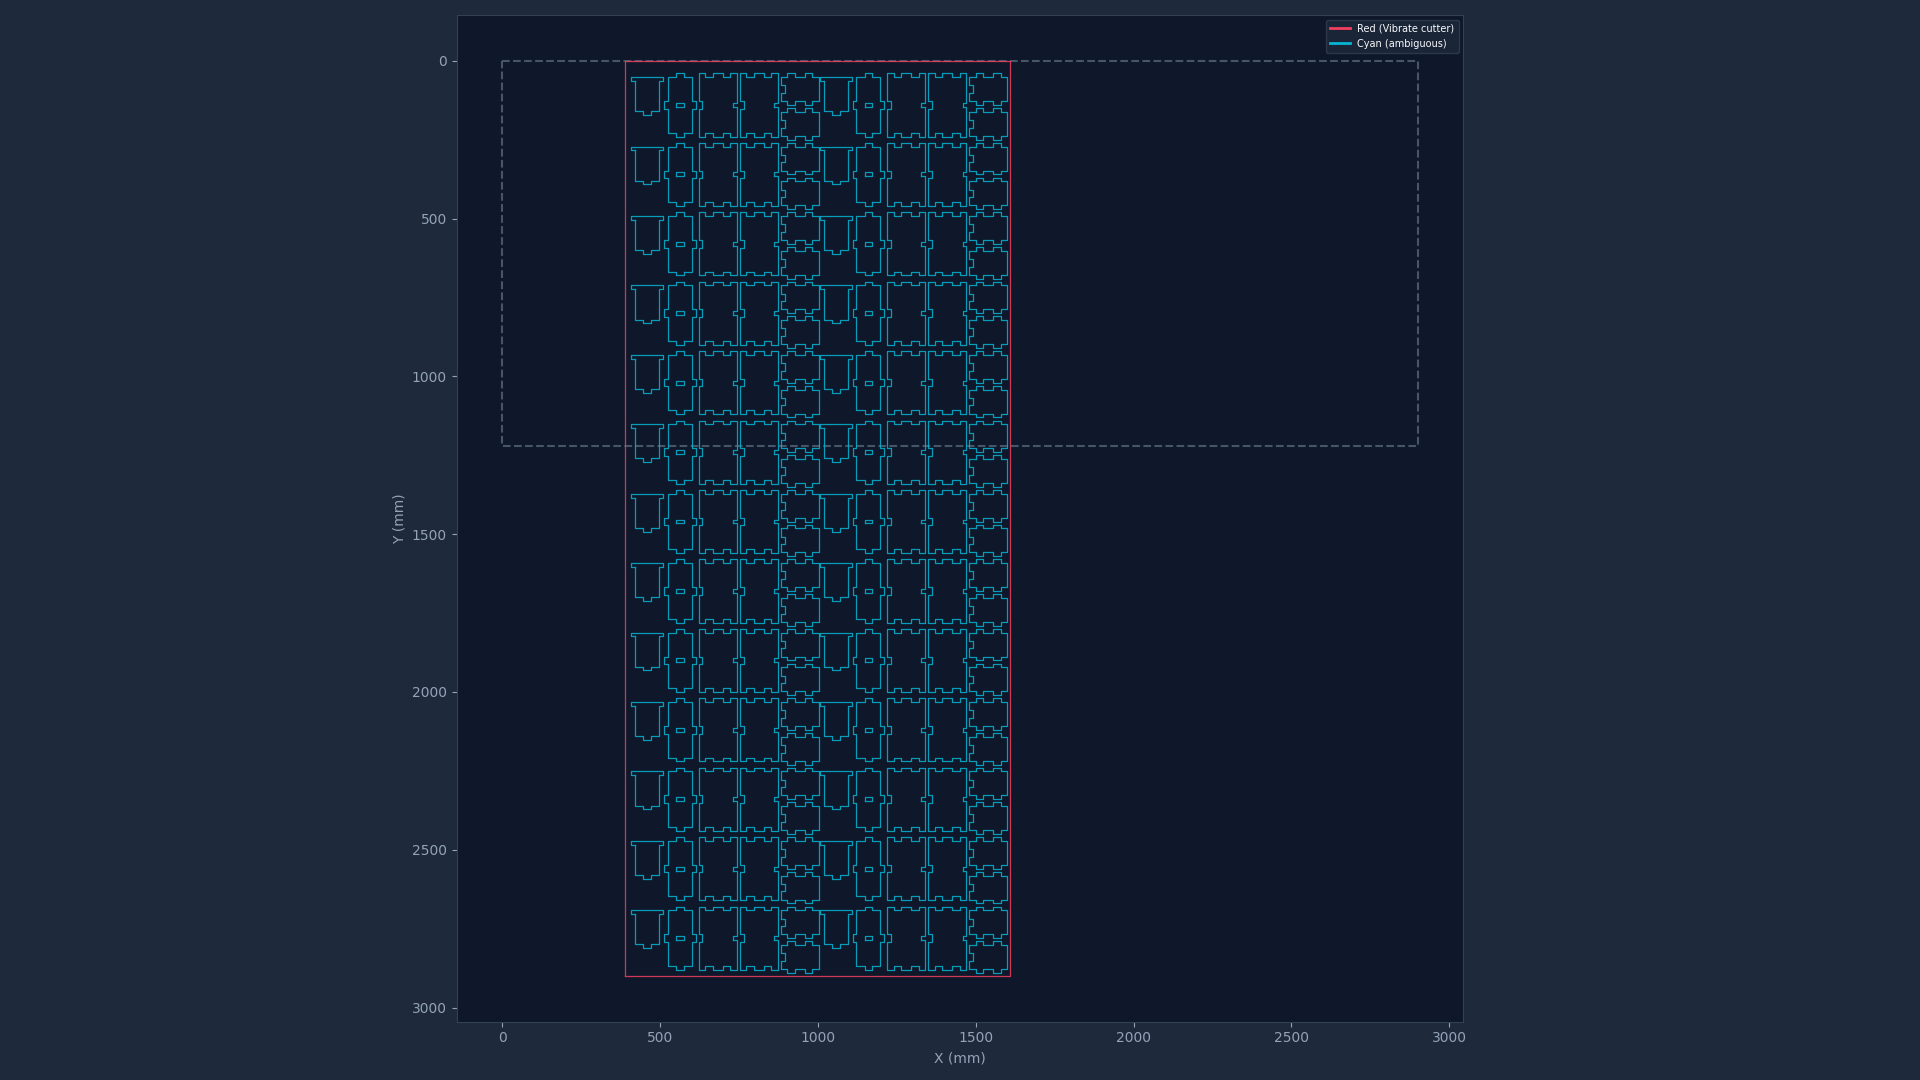
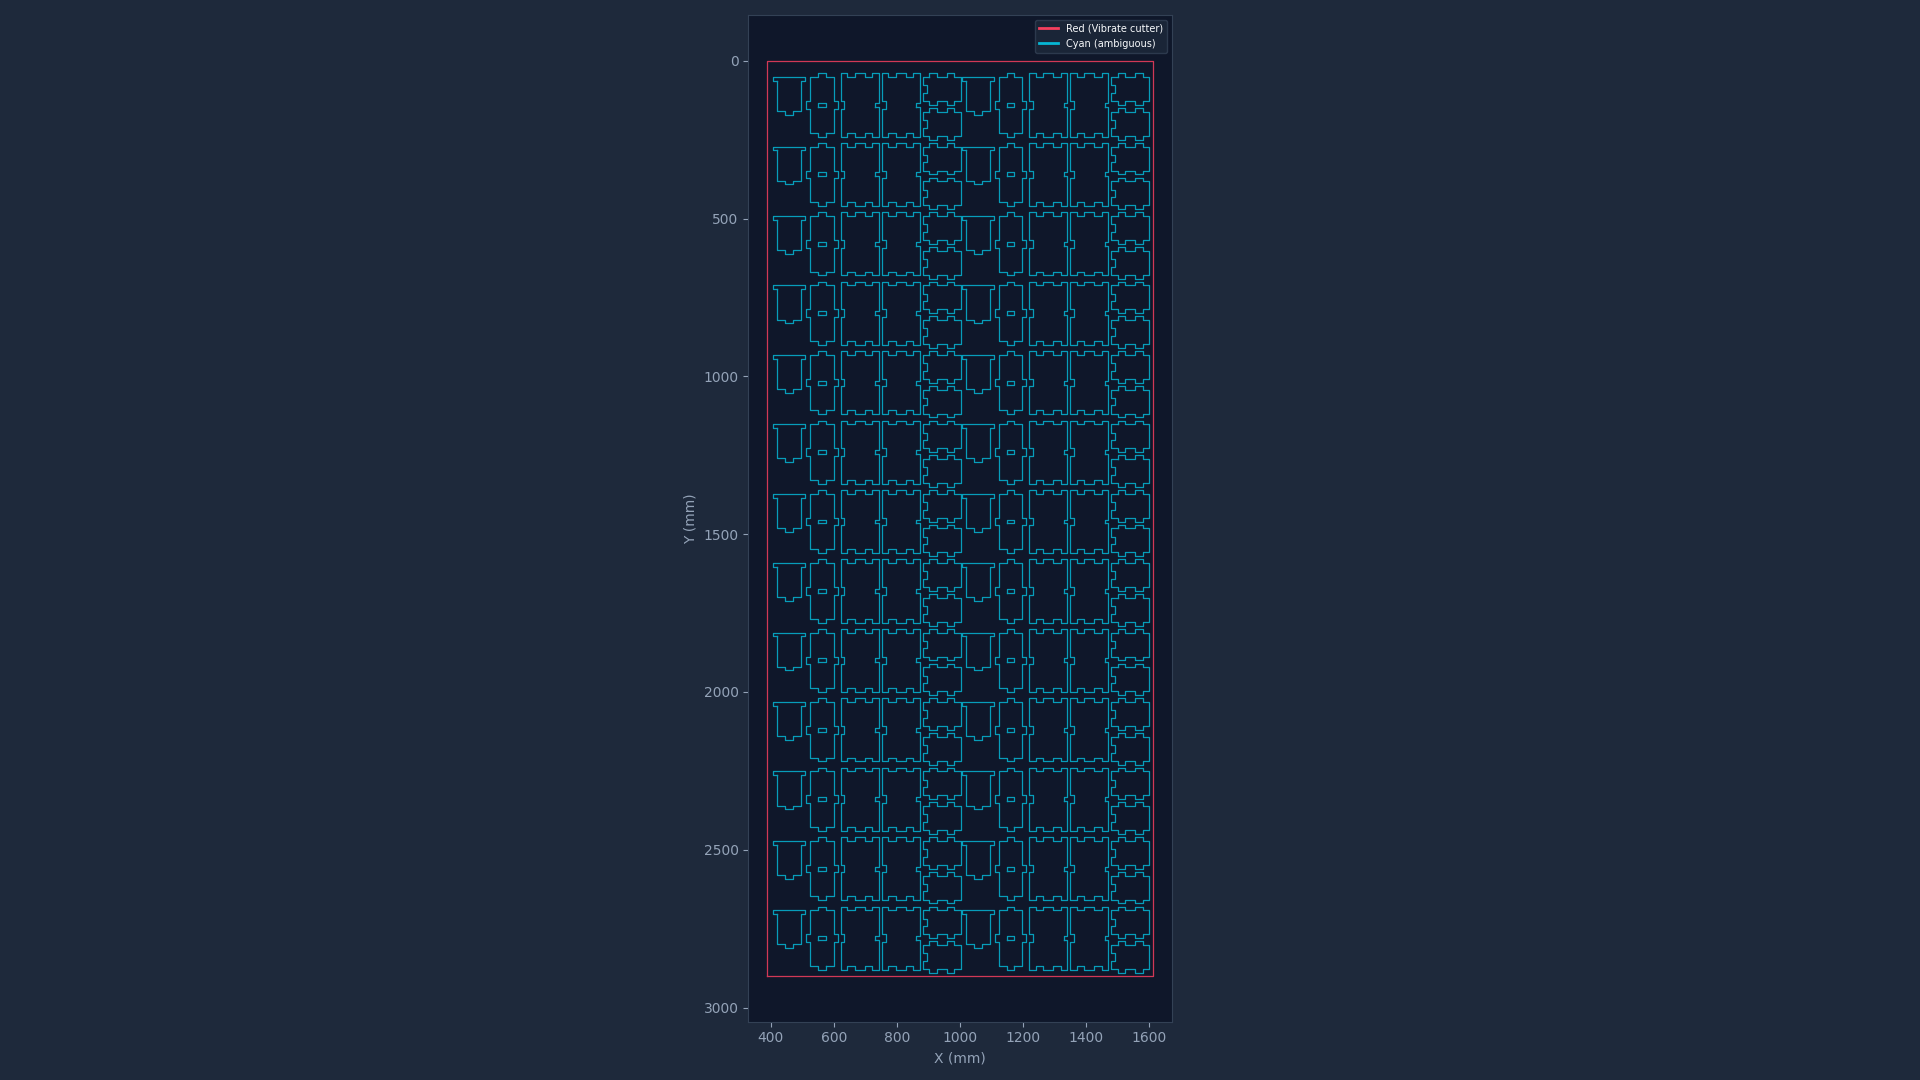
fix: remove hardcoded 2900x1220 stock rectangle artifact from all PNG visualizations

diff --git a/src/dxf_indexer_app_v2.py b/src/dxf_indexer_app_v2.py
@@ -295,11 +295,6 @@ if uploaded_file is not None:
                             ys = [v[1] for v in el["verts"]]
                             ax.plot(xs, ys, color=cmap.get(el["color"], "#64748B"), linewidth=1.0, alpha=0.8)
 
-                        from matplotlib.patches import Rectangle
-                        stock_w, stock_h = 2900.0, 1220.0
-                        ax.add_patch(Rectangle((0, 0), stock_w, stock_h, fill=False,
-                                               edgecolor="#475569", linewidth=1.5, linestyle="--"))
-
                         sem_loc = result.get("semantic_analysis", {})
                         zones = sem_loc.get("zones", [])
                         for z in zones:

diff --git a/src/dxf_geometry_indexer_v2.py b/src/dxf_geometry_indexer_v2.py
@@ -1948,13 +1948,6 @@ def _render_png(entities, out_path, semantic=None, tool_config=None):
         ys = [v[1] for v in verts]
         ax.plot(xs, ys, color=color, linewidth=0.9, alpha=0.85)
 
-    from matplotlib.patches import Rectangle
-
-    stock_w, stock_h = 2900.0, 1220.0
-    ax.add_patch(Rectangle((0, 0), stock_w, stock_h, fill=False,
-                           edgecolor="#475569", linewidth=1.5, linestyle="--",
-                           label=f"Stock: {stock_w:.0f}x{stock_h:.0f} mm"))
-
     if semantic:
         zones = semantic.get("zones", [])
         for z in zones:

diff --git a/src/semantic_embedding_dashboard.py b/src/semantic_embedding_dashboard.py
@@ -58,12 +58,6 @@ def _render_png_bytes(entities, semantic, tool_config):
         ys = [v[1] for v in verts]
         ax.plot(xs, ys, color=color, linewidth=0.9, alpha=0.85)
 
-    from matplotlib.patches import Rectangle
-    stock_w, stock_h = 2900.0, 1220.0
-    ax.add_patch(Rectangle((0, 0), stock_w, stock_h, fill=False, edgecolor="#475569",
-                           linewidth=1.5, linestyle="--",
-                           label=f"Stock: {stock_w:.0f}x{stock_h:.0f} mm"))
-
     if semantic:
         zones = semantic.get("zones", [])
         for z in zones:

diff --git a/demo_data/26_skladba_index.md b/demo_data/26_skladba_index.md
@@ -1,6 +1,6 @@
 # DXF Geometry Index V2.1: 26_skladba.dxf
 - Indexer: V2.3.0 - DXF: AC1015 - MD5: 85b4ca6b1567e38c...
-- Timestamp: 2026-06-08T09:37:15
+- Timestamp: 2026-06-08T10:00:06
 - Libs: Shapely=OK - SciPy=OK - GUDHI=N/A
 
 ## Spatial Bounds

diff --git a/demo_data/3781_1_index.md b/demo_data/3781_1_index.md
@@ -1,6 +1,6 @@
 # DXF Geometry Index V2.1: 3781_1.dxf
 - Indexer: V2.3.0 - DXF: AC1015 - MD5: 5a874b8054eacf51...
-- Timestamp: 2026-06-08T09:37:15
+- Timestamp: 2026-06-08T10:00:07
 - Libs: Shapely=OK - SciPy=OK - GUDHI=N/A
 
 ## Spatial Bounds

diff --git a/demo_data/3824_1_index.md b/demo_data/3824_1_index.md
@@ -1,6 +1,6 @@
 # DXF Geometry Index V2.1: 3824_1.dxf
 - Indexer: V2.3.0 - DXF: AC1015 - MD5: 1d7c1016ae3202a4...
-- Timestamp: 2026-06-08T09:37:16
+- Timestamp: 2026-06-08T10:00:08
 - Libs: Shapely=OK - SciPy=OK - GUDHI=N/A
 
 ## Spatial Bounds
